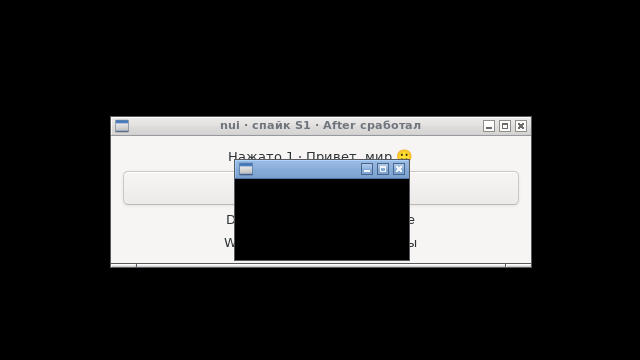
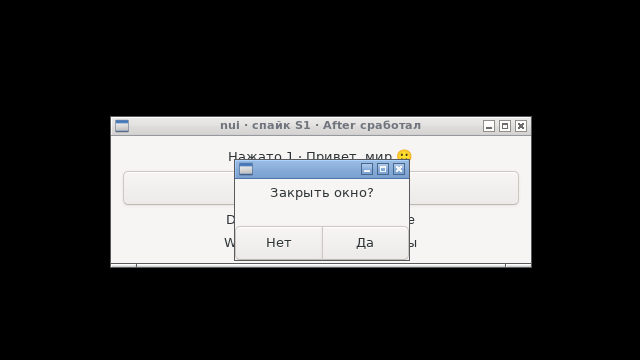
Спайк S1: снимки через rootshot, диалог в фотоотчёте нарисован
Чёрный диалог в фотоотчёте оказался ошибкой xwd -root, а не nui:
GTK 3 создаёт окна с GL-визуалом, и xwd при нескольких визуалах
теряет перекрывающиеся окна. Подтверждено журналом xtrace и
снимком одним XGetImage(root). Свой rootshot встроен в образ
nui-bookworm; run-bookworm.sh берёт готовый образ.

Changed region(s): [[0.3438, 0.4889, 0.6562, 0.7333]]

diff --git a/spike/tools/rootshot.c b/spike/tools/rootshot.c
@@ -1,0 +1,42 @@
+/* rootshot — снимок экрана одним XGetImage(root), в PPM на stdout:
+ *     rootshot | pnmtopng > shot.png
+ *
+ * Почему не xwd -root: GTK 3 создаёт окна с визуалом, пригодным для OpenGL, а не
+ * с визуалом экрана по умолчанию. Видя на экране несколько визуалов, xwd склеивает
+ * картинку по кусочкам и теряет перекрывающиеся окна: модальный диалог поверх
+ * родителя выходит чёрным, хотя на экране он нарисован (проверено в спайке S1).
+ *
+ * Прототипы Xlib — свои, без заголовков (как в nui, ADR-3). Только TrueColor 24/32 бит. */
+typedef struct _XDisplay Display;
+typedef unsigned long Window;
+typedef struct _XImage XImage;
+Display *XOpenDisplay(const char *);
+int XDefaultScreen(Display *);
+Window XRootWindow(Display *, int);
+int XDisplayWidth(Display *, int);
+int XDisplayHeight(Display *, int);
+XImage *XGetImage(Display *, unsigned long, int, int, unsigned, unsigned, unsigned long, int);
+unsigned long XGetPixel(XImage *, int, int);
+int printf(const char *, ...);
+int putchar(int);
+
+#define ZPIXMAP 2
+
+int main(void) {
+	Display *d = XOpenDisplay(0);
+	if (!d)
+		return 2;
+	int s = XDefaultScreen(d), w = XDisplayWidth(d, s), h = XDisplayHeight(d, s);
+	XImage *img = XGetImage(d, XRootWindow(d, s), 0, 0, w, h, ~0UL, ZPIXMAP);
+	if (!img)
+		return 3;
+	printf("P6\n%d %d\n255\n", w, h);
+	for (int y = 0; y < h; y++)
+		for (int x = 0; x < w; x++) {
+			unsigned long p = XGetPixel(img, x, y);
+			putchar((p >> 16) & 255);
+			putchar((p >> 8) & 255);
+			putchar(p & 255);
+		}
+	return 0;
+}

diff --git a/spike/s1/shots_on.go b/spike/s1/shots_on.go
@@ -6,8 +6,10 @@ import "os/exec"
 
 var shotN int
 
-// shot снимает весь экран (под Xvfb это только наше окно) в shotDir/NN-name.png.
+// shot снимает весь экран (под Xvfb это только наши окна) в shotDir/NN-name.png.
 // Выполняется синхронно в UI-потоке: окно уже нарисовано, X-сервер хранит его содержимое.
+// Снимок — через rootshot (spike/tools/rootshot.c), а не xwd -root: xwd теряет окна
+// с не-умолчательным визуалом, и модальный диалог выходил чёрным.
 // Под тегом shots, чтобы os/exec не попадал в бинарник, по которому меряют размер.
 func shot(name string) {
 	if shotDir == "" {
@@ -19,7 +21,7 @@ func shot(name string) {
 		n = "0" + n
 	}
 	path := shotDir + "/" + n + "-" + name + ".png"
-	if err := exec.Command("sh", "-c", "xwd -root -silent | xwdtopnm 2>/dev/null | pnmtopng > "+path).Run(); err != nil {
+	if err := exec.Command("sh", "-c", "rootshot | pnmtopng > "+path).Run(); err != nil {
 		println("s1: снимок не удался:", path, err.Error())
 	}
 }

diff --git a/spike/s1/RESULT.md b/spike/s1/RESULT.md
@@ -22,20 +22,20 @@
 - Кириллица и эмодзи проходят Go → GTK → Go без потерь (`cstr` / `gostr` без `C.GoString`).
 - Подвох при проверке прототипов: если исходник идёт из stdin, `#include "x.h"` сначала ищется в текущем каталоге.
 - Подвох Docker: в Debian-пакете Go `src` — симлинк в `/usr/share/go-*`, монтировать нужно оба каталога.
+- **Подвох снимков: `xwd -root` врёт.** GTK 3 создаёт окна с визуалом, пригодным для OpenGL (`0x3b7`), а не с визуалом экрана по умолчанию (`0x21`). Видя несколько визуалов, `xwd` склеивает снимок по кусочкам и теряет перекрывающиеся окна: модальный диалог поверх родителя выходил чёрным. Сам диалог при этом рисовался: по журналу `xtrace` GTK кладёт картинку в окно (`CopyArea`), а снимок одним `XGetImage(root)` показывает его целиком. Ни nui, ни GTK, ни Xvfb не виноваты. Снимки теперь делает свой [`rootshot`](../tools/rootshot.c) — он встроен в образ [`bookworm.Dockerfile`](../bookworm.Dockerfile).
 
 ## Фотоотчёт
 
-Снимки делает сам сценарий (`-auto -shots shots`, сборка `-tags shots`) под Xvfb с openbox и `LANG=ru_RU.UTF-8`.
+Снимки делает сам сценарий (`-auto -shots shots`, сборка `-tags shots`) под Xvfb с openbox и `LANG=ru_RU.UTF-8`, инструментом `rootshot`.
 
 | | |
 |---|---|
 | ![](shots/01-start.png) | **1. Старт.** Окно с рамкой, метки ждут событий |
 | ![](shots/02-click.png) | **2. Клик** (через `gtk_button_clicked`): метка «Нажато 1 · Привет, мир 🙂» |
 | ![](shots/03-do-watch-after.png) | **3. Через ~1 с:** `Do` из горутины, `Watch` прочитал pipe, `After` сменил заголовок |
-| ![](shots/04-ask.png) | **4. Крестик → «Закрыть окно?»** — окно диалога на снимке **чёрное** (см. ниже) |
+| ![](shots/04-ask.png) | **4. Крестик → «Закрыть окно?»** Модальный диалог `Ask` из обработчика `delete-event`, кнопки «Нет» / «Да» на языке системы |
 | ![](shots/05-after-no.png) | **5. Ответ «Нет»:** окно осталось |
 
 ## Открыто
 
-- Снимок диалога чёрный даже через 700 мс после открытия, хотя сам диалог работает (ответы «Нет»/«Да» проходят). Вероятно, снимок, сделанный изнутри вложенного цикла, блокирует первую отрисовку диалога. Проверить: снимать из отдельной горутины или через `Do` после `map`-события.
 - Ручной прогон на настоящем рабочем столе (X11 и Wayland): `go build -o s1 . && ./s1`.
